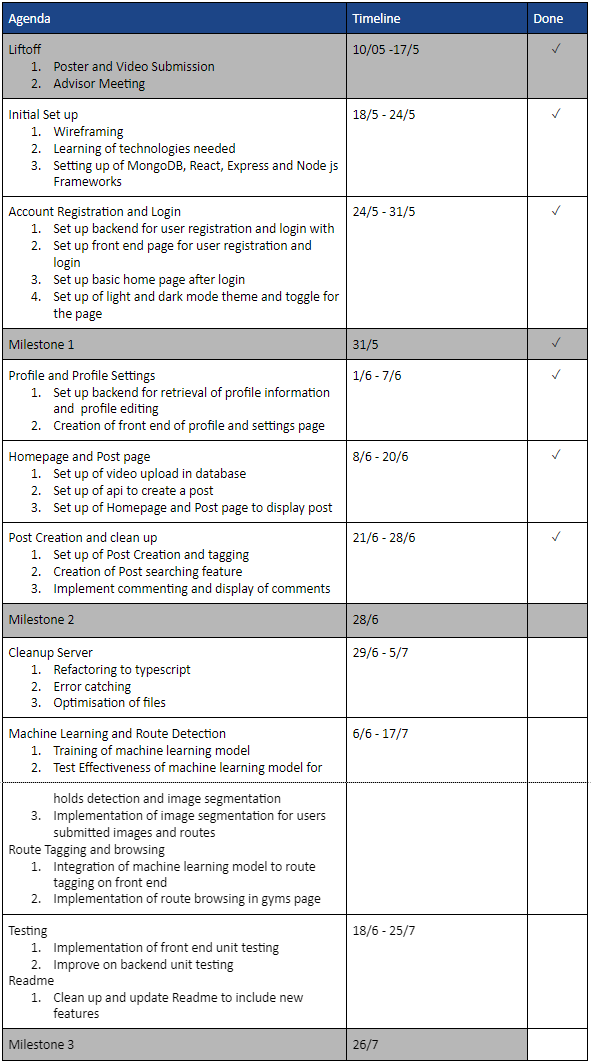
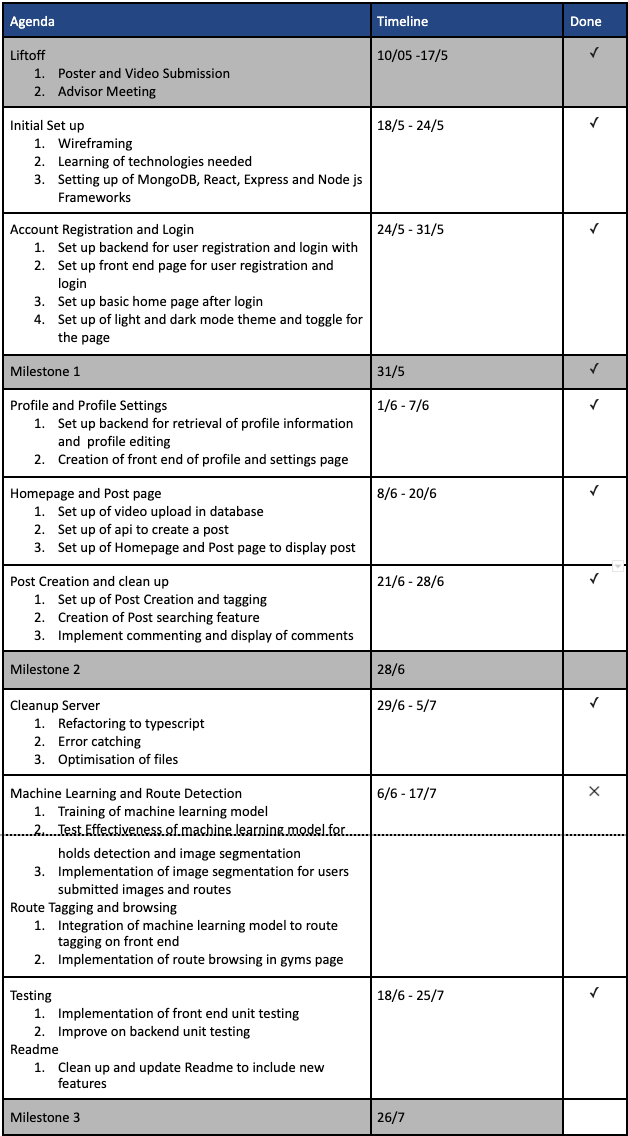
Edited README.md

Changed region(s): [[0.0, 0.0, 1.0, 1.0]]

diff --git a/README.md b/README.md
@@ -110,42 +110,15 @@ Backend: <https://allez-orbital.herokuapp.com/>
 
    ![](static/Search.png)
 
+**Uncompleted**
 
-**To be completed by Milestone 3:**
+Due to insufficient time to collect data for and train the machine learning model the following features were not completed in time for milestone 3
 
-**Features**
 
-1. **Machine learning to identify route holds for easier route creation**
+7.  **Machine learning to identify route holds for easier route creation**
 
-- Use of machine learning for climbing holds recognisation and segmentation
-- Use of segemented image for users to select holds that are included in their route
+8. **Route tagging**
 
-2. **Route tagging**
-
-- Ability for users to browse through route and videos tagged to the routes
-
-**Optimisation**
-
-1. **Cleaning up of Backend**
-
-- Refactoring to Typescript for addition type safety
-- Error Catching to handle erroneous inputs
-- Abstracting duplicate functions
-
-2. **Optimise file size to be held on server**
-
-- Compression of media uploaded to reduce space on server
-
-**Testing**
-
-1. **Frontend Testing**
-
-- Unit testing for conditional rendering and error handling
-- Testing mock inputs and expected outputs
-
-2. **Backend Testing**
-
-- Addtion of more tests to increase code coverage
 
 **Timeline**
 
